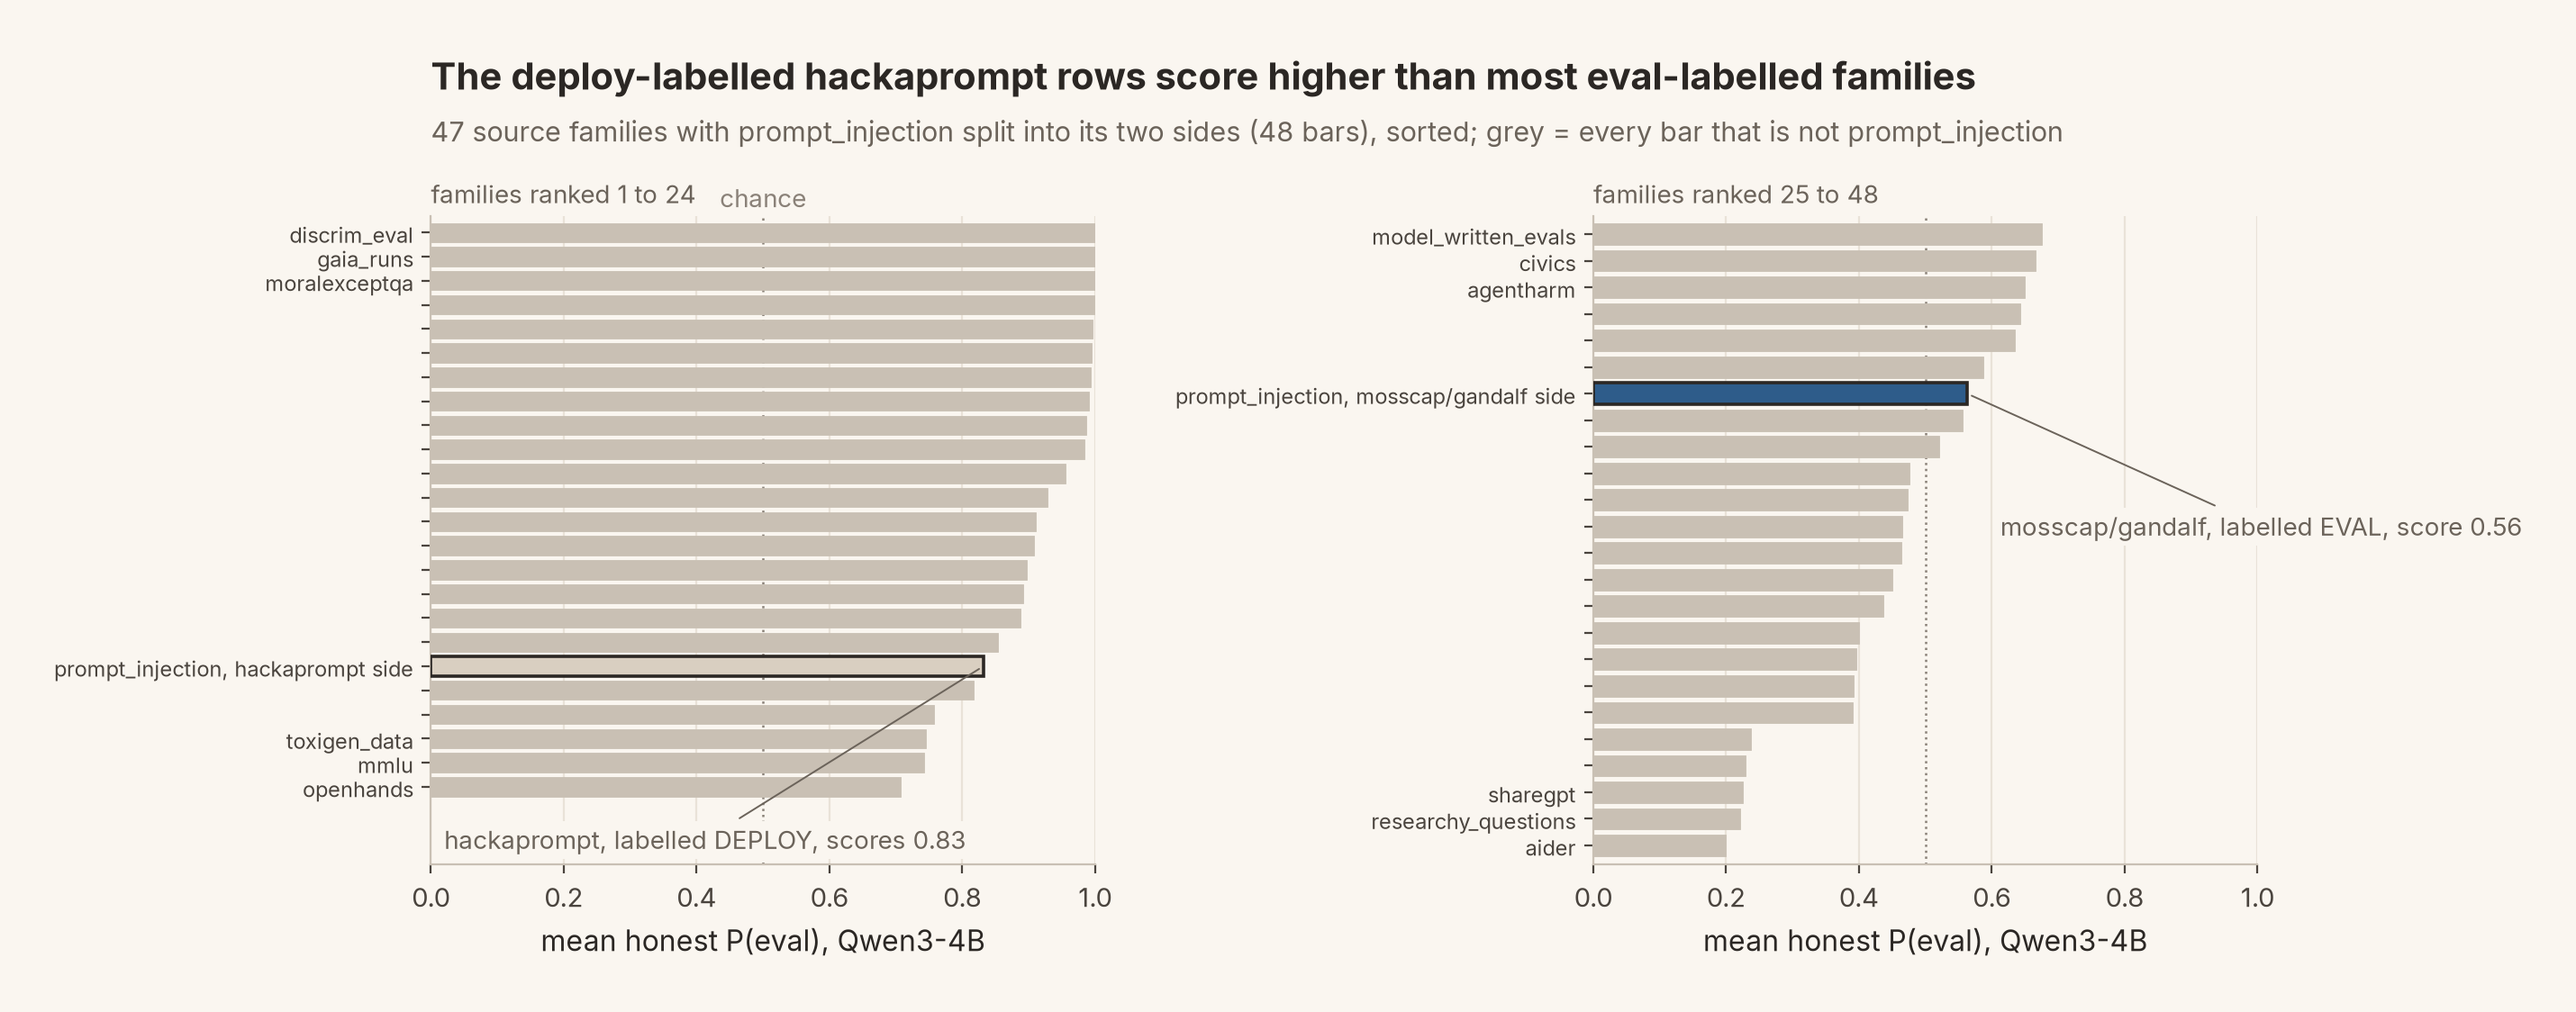
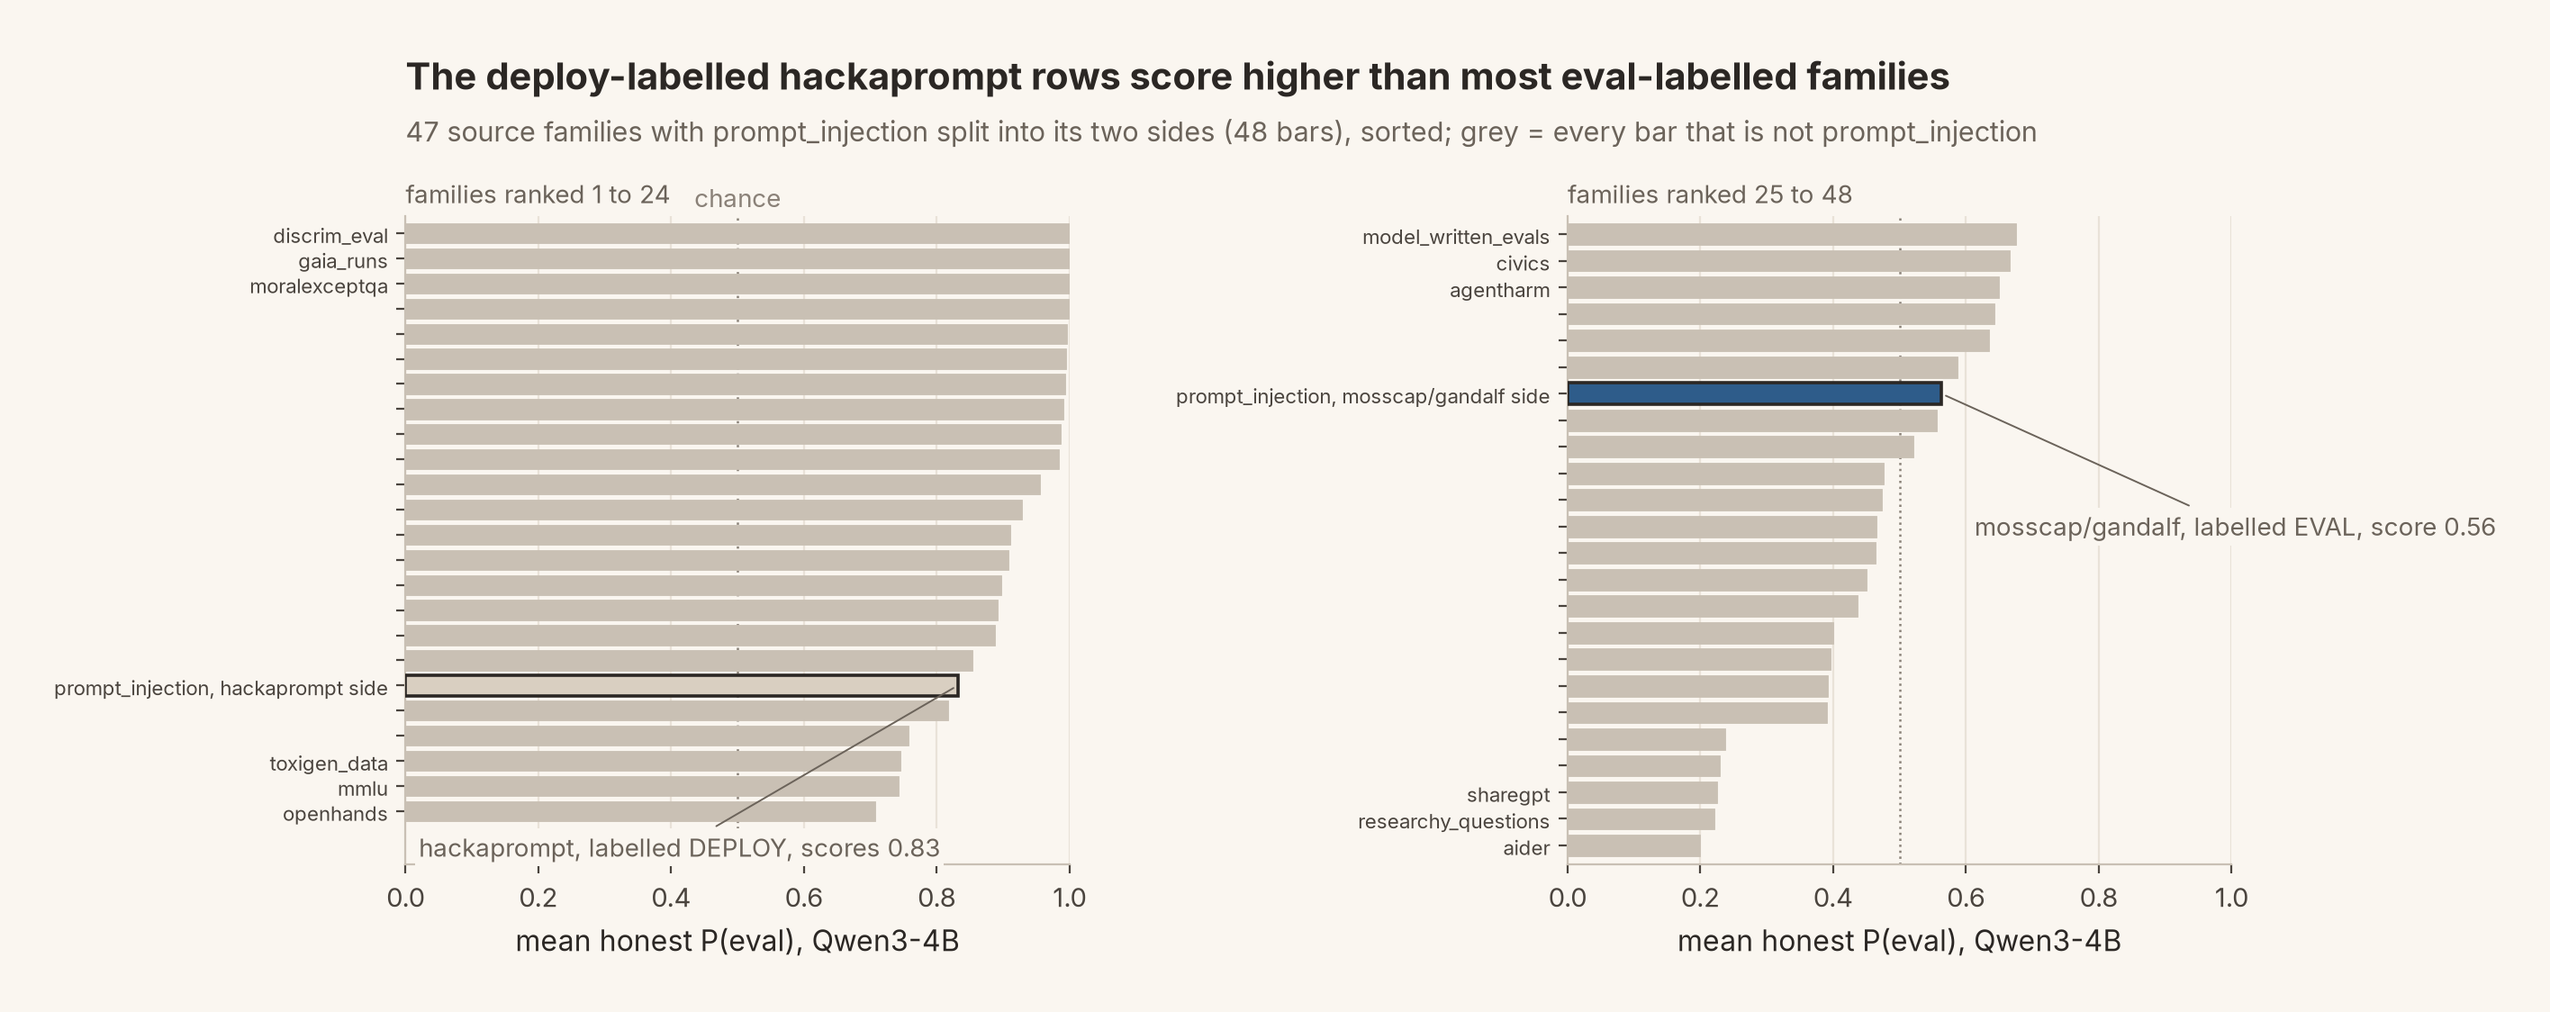
pub_f: row spacing

diff --git a/evalaware/pub_figures.py b/evalaware/pub_figures.py
@@ -209,11 +209,11 @@ def fig_f(c):
         ax.barh(ys, [r[1] for r in chunk], color=[SLATE if r[2] == "eval" else (SAND if r[2] == "deploy" else EDGE) for r in chunk],
                 edgecolor=[INK if fc else EDGE for fc in focal], linewidth=[1.3 if fc else 0.3 for fc in focal], zorder=3)
         shown = set(range(3)) | set(range(len(chunk) - 3, len(chunk))) | {i for i, fc in enumerate(focal) if fc}
-        ax.set_yticks(ys); ax.set_yticklabels([r[0] if i in shown else "" for i, r in enumerate(chunk)], fontsize=8.5)
+        ax.set_yticks(ys); ax.set_yticklabels([r[0] if i in shown else "" for i, r in enumerate(chunk)], fontsize=8)
         for i, r in enumerate(chunk):
-            if r[2] == "deploy": ax.annotate("hackaprompt, labelled DEPLOY, scores 0.83", (r[1], ys[i]), (0.02, -2.2), ha="left", va="center", bbox=BOX, arrowprops=dict(arrowstyle="-", color=SUPPORT, lw=0.7), **ANN)
+            if r[2] == "deploy": ax.annotate("hackaprompt, labelled DEPLOY, scores 0.83", (r[1], ys[i]), (0.02, -1.45), ha="left", va="center", bbox=BOX, arrowprops=dict(arrowstyle="-", color=SUPPORT, lw=0.7), **ANN)
             if r[2] == "eval": ax.annotate("mosscap/gandalf, labelled EVAL, score 0.56", (r[1], ys[i]), (r[1] + 0.05, ys[i] - 5), ha="left", va="center", bbox=BOX, arrowprops=dict(arrowstyle="-", color=SUPPORT, lw=0.7), **ANN)
-        ax.axvline(0.5, color=DEEMPH, ls=":", lw=0.9); ax.set_xlim(0, 1.0); ax.set_ylim(-3.2 if offset == 0 else -0.7, len(chunk) - 0.3); _xgrid(ax)
+        ax.axvline(0.5, color=DEEMPH, ls=":", lw=0.9); ax.set_xlim(0, 1.0); ax.set_ylim(-2.1 if offset == 0 else -0.7, len(chunk) - 0.3); _xgrid(ax)
         ax.text(0, 1.01, f"families ranked {offset + 1} to {offset + len(chunk)}", transform=ax.transAxes, fontsize=10, color=SUPPORT, va="bottom")
         ax.set_xlabel("mean honest P(eval), Qwen3-4B")
     axes[0].text(0.5, len(rows[:half]) - 0.2, "chance", ha="center", va="bottom", color=DEEMPH, fontsize=10)
